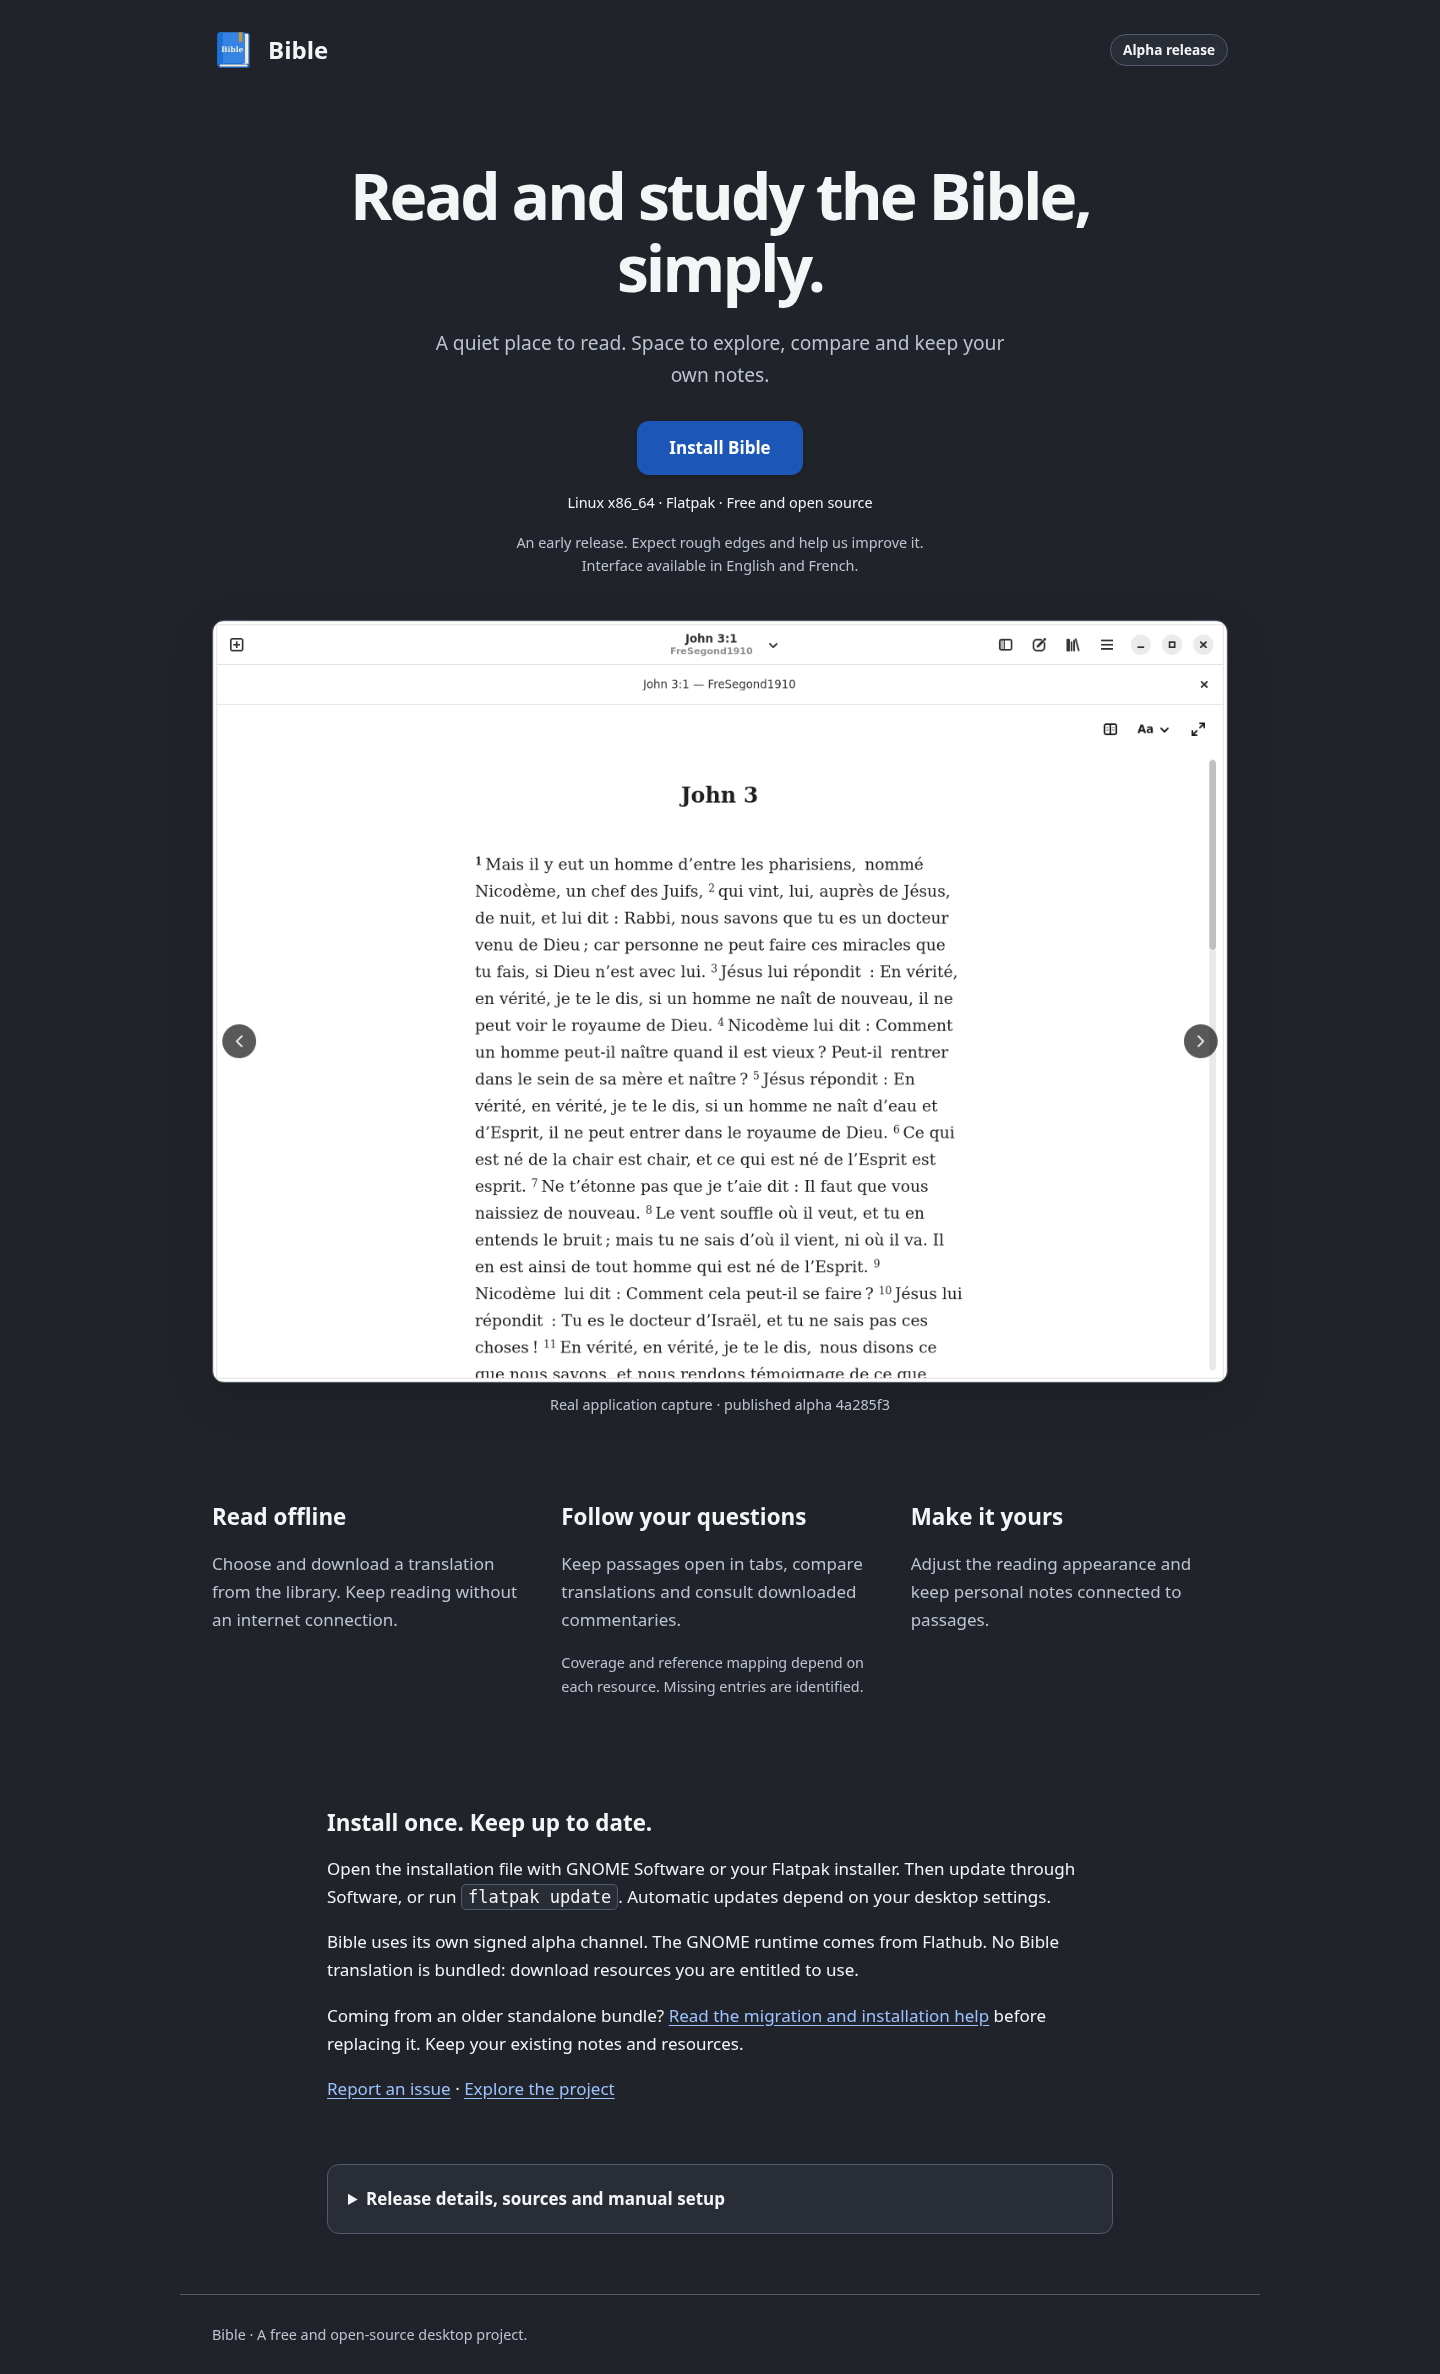
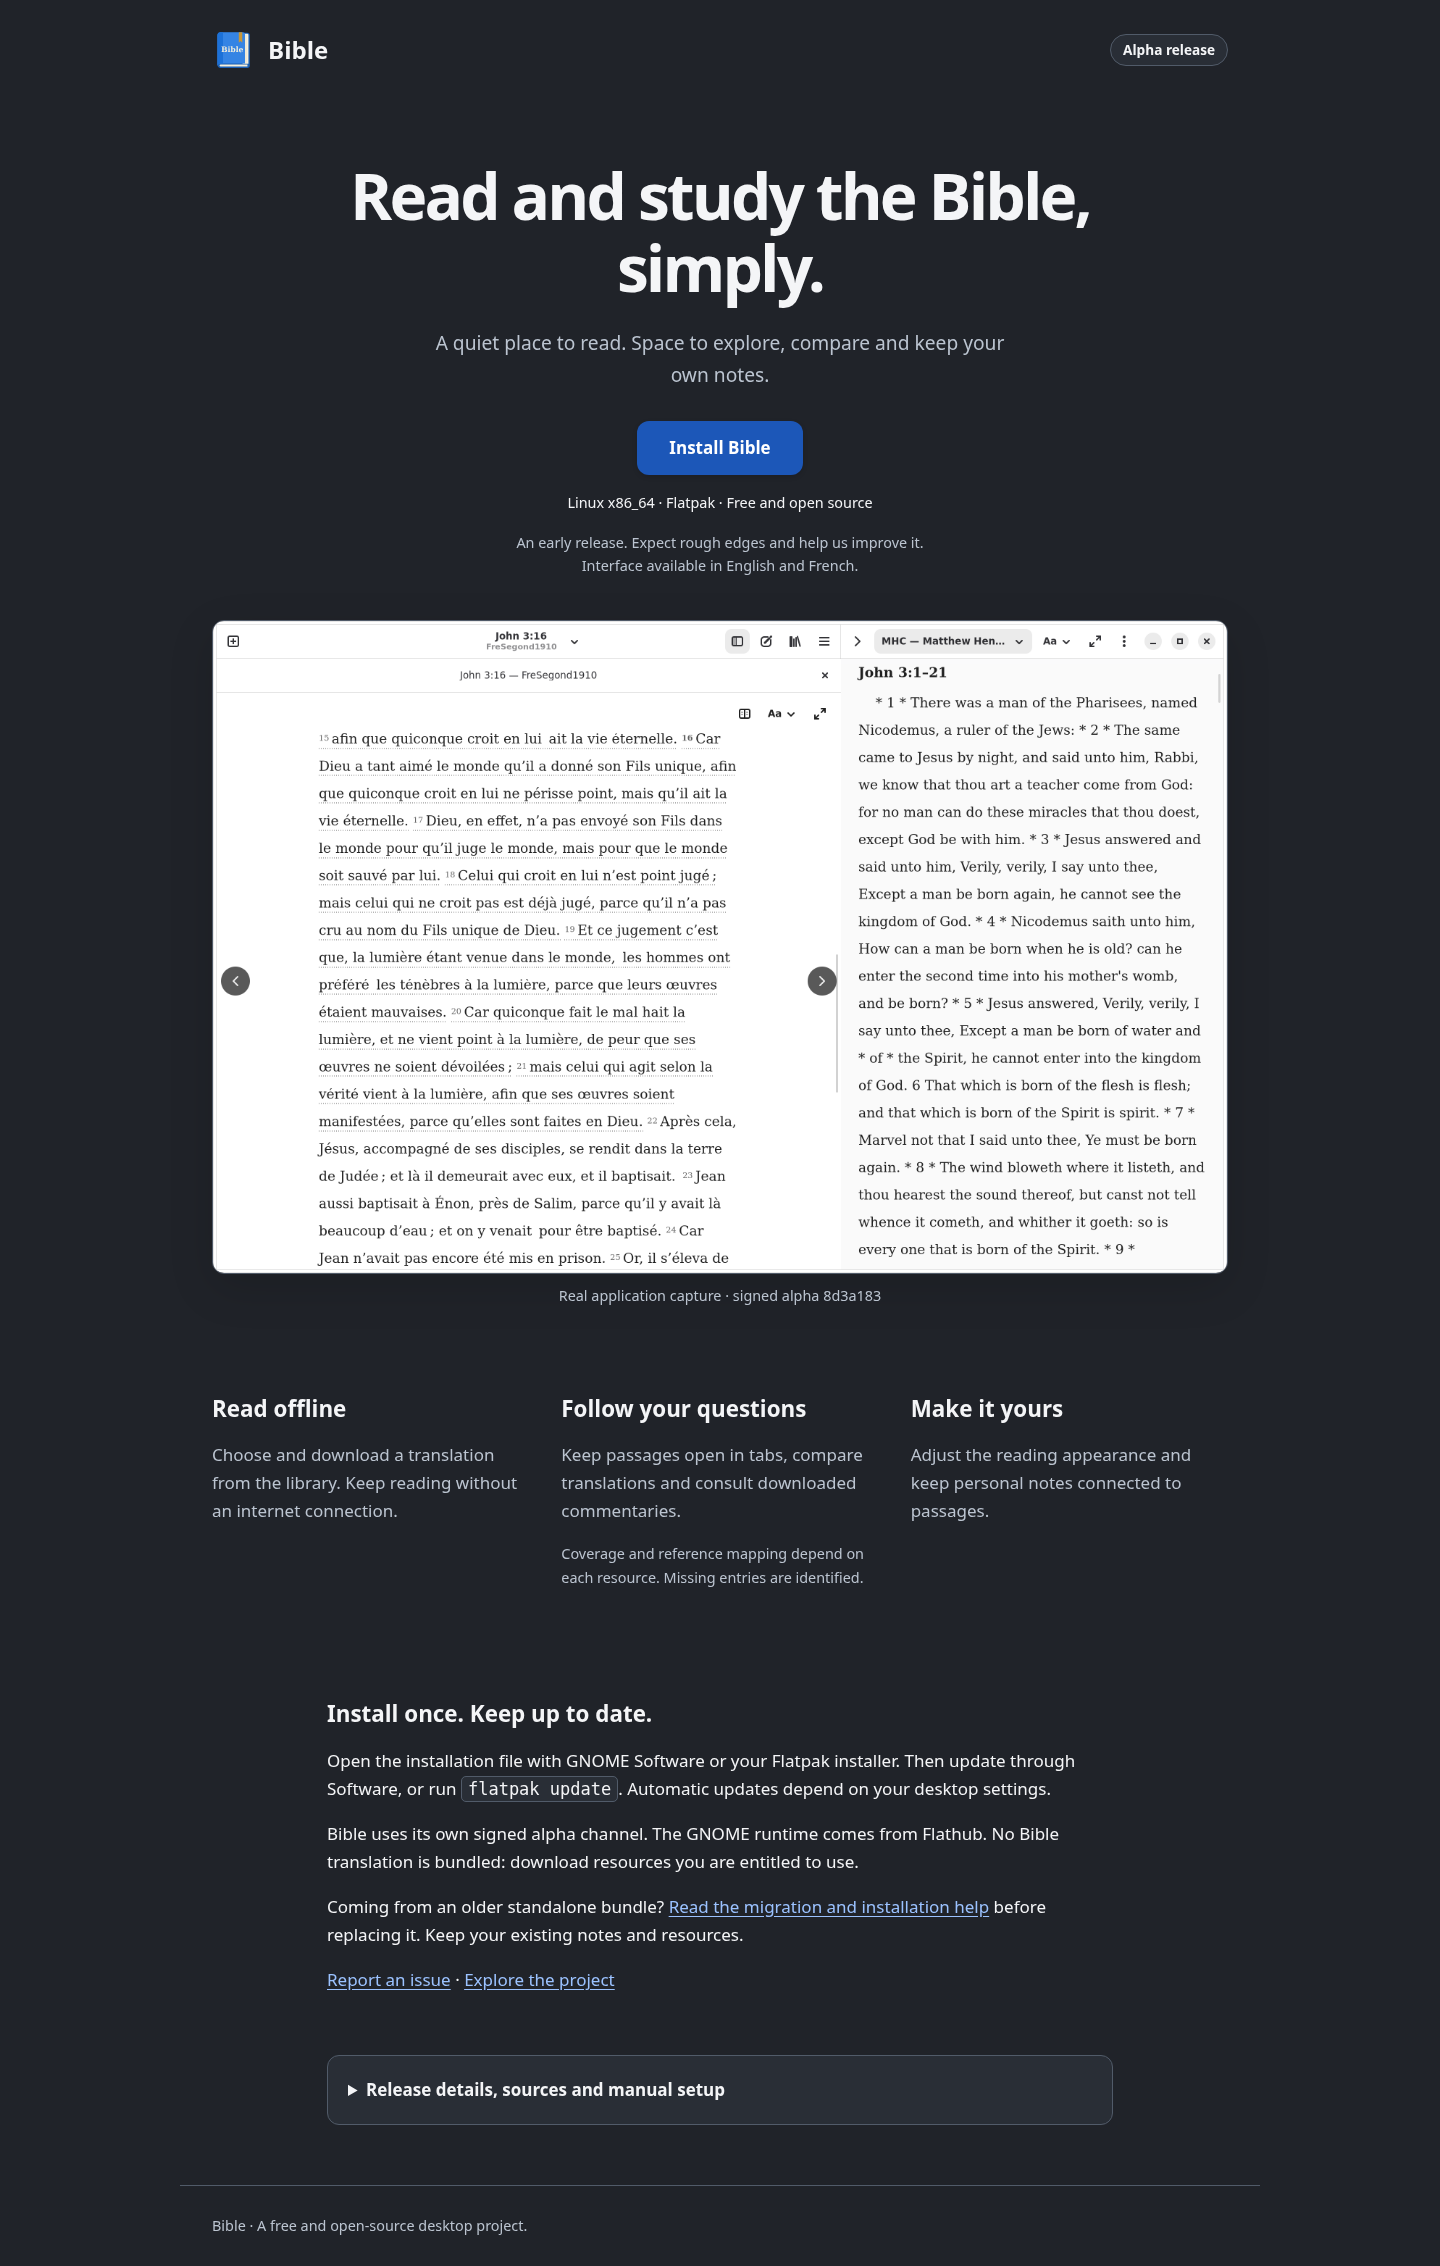
Refresh approved landing page with the current signed alpha and integrated main

diff --git a/tools/site_assets/index.html b/tools/site_assets/index.html
@@ -18,7 +18,7 @@
     <a class="button" href="alpha/Bible.flatpakref">Install Bible</a>
     <p class="platform">Linux x86_64 · Flatpak · Free and open source</p>
     <p class="small">An early release. Expect rough edges and help us improve it.<br>Interface available in English and French.</p>
-    <figure><img class="screenshot" src="assets/reading.png" width="1200" height="900" alt="Published Bible alpha: John 3 in the French Louis Segond translation, with reading appearance and fullscreen controls."><figcaption>Real application capture · published alpha 4a285f3</figcaption></figure>
+    <figure><img class="screenshot" src="assets/reading.png" width="1400" height="900" alt="Published Bible alpha: John 3 in the French Louis Segond translation, with the right-hand Matthew Henry commentary drawer and shared reading typography."><figcaption>Real application capture · signed alpha 8d3a183</figcaption></figure>
   </section>
   <section class="features wrap" aria-label="Reading and study features">
     <article><h2>Read offline</h2><p>Choose and download a translation from the library. Keep reading without an internet connection.</p></article>

diff --git a/docs/WEBSITE_37_REVIEW.md b/docs/WEBSITE_37_REVIEW.md
@@ -1,7 +1,7 @@
-# Alpha landing page — product review required
+# Alpha landing page — approved presentation
 
-This is a proposal for issue #37. **Do not merge or publish before product-manager
-review.** No Pages configuration, public signing key, channel URL or repository
+The product manager approved the desktop/mobile/dark presentation on PR #41.
+The client authorized merge/publication after current-alpha/channel checks. No Pages configuration, public signing key, channel URL or repository
 history has been changed.
 
 The English page uses local assets, system fonts, responsive layout, native
@@ -15,11 +15,12 @@ notices, public key and fallback bundles remain accessible in disclosure content
 assets on every generation. Provenance is escaped and follows the package being
 published. Historical archives and OSTree objects are not removed. The real
 application screenshot is deliberately identified separately: public source
-`4a285f327b84008b398d3bf6841737534da831f0`, alpha revision `39558047623-2`,
[1 lines of base64/hex data omitted]
-It was captured from the installed signed public alpha, with a disposable profile,
-English UI and real offline FreSegond1910 John 3. No proposed features are shown.
-The screenshot must be reviewed/replaced when the published interface changes.
+`8d3a1834333a55e35cf61be248352f7e34ee40b7`, alpha revision `39644596592-2`,
[1 lines of base64/hex data omitted]
+It was captured from /app code in the installed signed public alpha with a
+private test profile, English UI, actual FreSegond1910 John 3:16 and MHC 2.2
+in the right drawer. Capture resolution is 1400×900 with no generated imagery.
+Current main (including the validated #51 crash and #36 surfaces fixes) is merged.
 
 Review captures:
 
